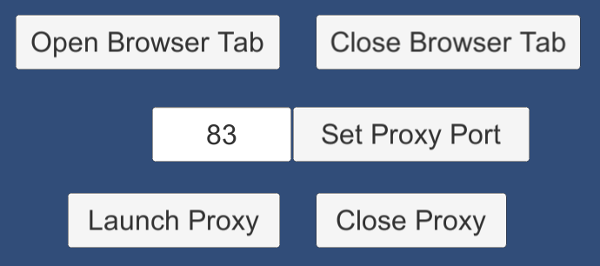
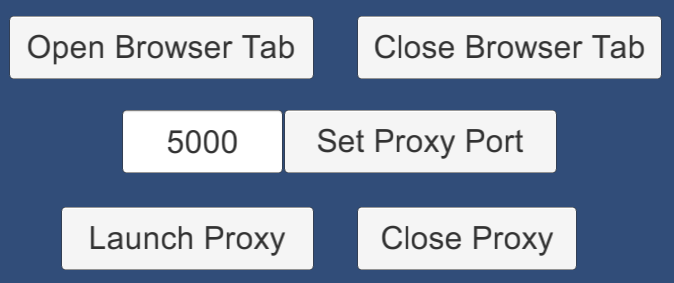
Updated docs

diff --git a/README.md b/README.md
@@ -5,7 +5,7 @@ The `WebGL for Speech Synthesis` package is available in the [Unity Asset Store]
 
 The `WebGL for Speech Detection` package is available in the [Unity Asset Store](https://www.assetstore.unity3d.com/en/#!/content/81076). [Online documentation](https://github.com/tgraupmann/UnityWebGLSpeechDetection) is available.
 
-The `WebGL Speech` package is available in the [Unity Asset Store](https://assetstore.unity.com/packages/tools/audio/webgl-speech-105831). 
+The `WebGL Speech` package is available in the [Unity Asset Store](https://assetstore.unity.com/packages/tools/audio/webgl-speech-105831).
 [Online documentation](https://github.com/tgraupmann/UnityWebGLSpeech) is available.
 
 # Supported Platforms
@@ -49,6 +49,12 @@ Check the [browser compatibility](https://developer.mozilla.org/en-US/docs/Web/A
 
 1.5 - Added example without GUI
 
+1.6 - Added buffering for language data
+
+1.7 - Cleaned up sample code
+
+1.8 - Updated sample scenes to use default 5000 port
+
 # Demos
 
 [Demo 01 Unity Speech Synthesis](https://theylovegames.com/UnityWebGLSpeechSynthesis_01Synthesis/)
@@ -59,17 +65,25 @@ This document can be accessed in `Assets/WebGLSpeechSynthesis/Readme.pdf` or use
 
 # Sample Scenes
 
-1 `Assets/WebGLSpeechSynthesis/Scenes/Example01Synthesis` - Uses WebGLSpeechSynthesisPlugin to do speech synthesis
+***These sample scenes are located in the `Assets/WebGLSpeechSynthesis/` folder:***
 
-2 `Assets/WebGLSpeechSynthesis/Scenes/Example02Proxy` - Uses ProxySpeechSynthesisPlugin to do speech synthesis
+1 `Scenes/Example01Synthesis` - Uses WebGLSpeechSynthesisPlugin to do speech synthesis
 
-3 `Assets/WebGLSpeechSynthesis/Scenes/Example03ProxyManagement` - Management methods for launching and modifying the proxy
+2 `Scenes/Example02Proxy` - Uses ProxySpeechSynthesisPlugin to do speech synthesis
 
-4 `Assets/WebGLSpeechSynthesis/Scenes/Example04SbaitsoClone` - Clone of a classic text to speech demo
+3 `Scenes/Example03ProxyManagement` - Management methods for launching and modifying the proxy
 
-5 `Assets/WebGLSpeechSynthesis/Editor/Example05PanelSynthesis.cs` - Unity editor panel for speech synthesis that works in play mode and edit mode
+4 `Scenes/Example04SbaitsoClone` - Clone of a classic text to speech demo
 
-6 `Assets/WebGLSpeechSynthesis/Scenes/Example06NoGUI` - Speech synthesis example without a GUI
+***These sample scenes are located in the `Assets/WebGLSpeechSynthesis/Editor/` folder:***
+
+5 `Example05PanelSynthesis.cs` - Unity editor panel for speech synthesis that works in play mode and edit mode
+
+***These sample scenes are located in the `Assets/WebGLSpeechSynthesis/` folder:***
+
+6 `Scenes/Example06NoGUI` - Speech synthesis example without a GUI
+
+7 `Scenes/Example07Buttons` - Speech synthesis where buttons uses random voices
 
 # Modes
 
@@ -270,7 +284,7 @@ if (null != _mSpeechSynthesisPlugin)
 
 18 Set Proxy Port
 ```
-int port = 83;
+int port = 5000;
 _mSpeechSynthesisPlugin.ManagementSetProxyPort(port);
 ```
 
@@ -348,6 +362,12 @@ The panel example uses the `EditorProxySpeechSynthesisPlugin` to proxy the speec
 The scene is located at `Assets/WebGLSpeechSynthesis/Scenes/Example06NoGUI.unity`
 
 The example source is located at `Assets/WebGLSpeechSynthesis/Scripts/Example06NoGUI.cs`.
+
+## Example07 - Buttons
+
+The scene is located at `Assets/WebGLSpeechSynthesis/Scenes/Example07Buttons.unity`
+
+The example source is located at `Assets/WebGLSpeechSynthesis/Scripts/Example07Buttons.cs`.
 
 # Support
 
